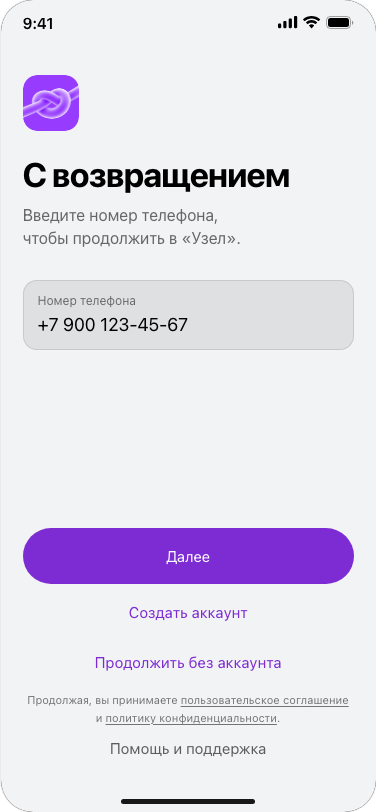
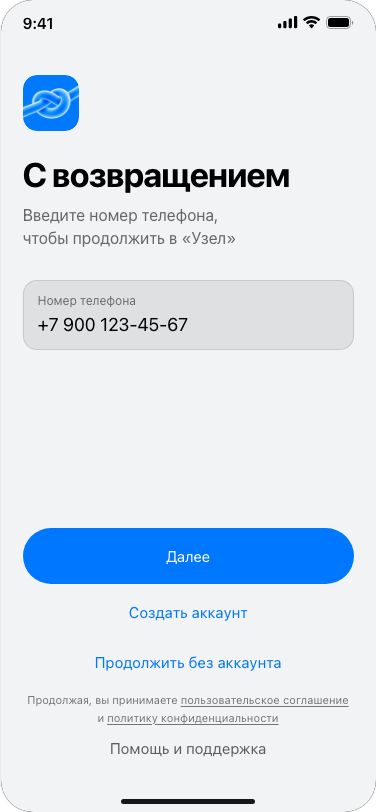
Refresh VK launcher previews and neutral surfaces

diff --git a/platform/concepts/ryadom/styles.css b/platform/concepts/ryadom/styles.css
@@ -1,6 +1,7 @@
 /* «Рядом» — локальная спортивная соцсеть. Единый системный язык концепта. */
 :root {
-  --r-bg: #f2efec;
+  /* Neutral VK canvas: it keeps blue actions crisp without a warm cast. */
+  --r-bg: #f2f3f5;
   --r-surface: #fff;
   --r-text: #14110f;
   --r-secondary: var(--ios-secondary);
@@ -797,7 +798,7 @@
 /* Модальный лист: подложка за ним притемняется, иначе экран читается
    как обычный, у которого контент почему-то начинается с середины. */
 .r-page:has(> .sheet) {
-  background-color: #ddd6cf;
+  background-color: #dfe3e8;
 }
 
 /* —— тёмные экраны: звонок, локскрин, показ на телевизоре —— */
